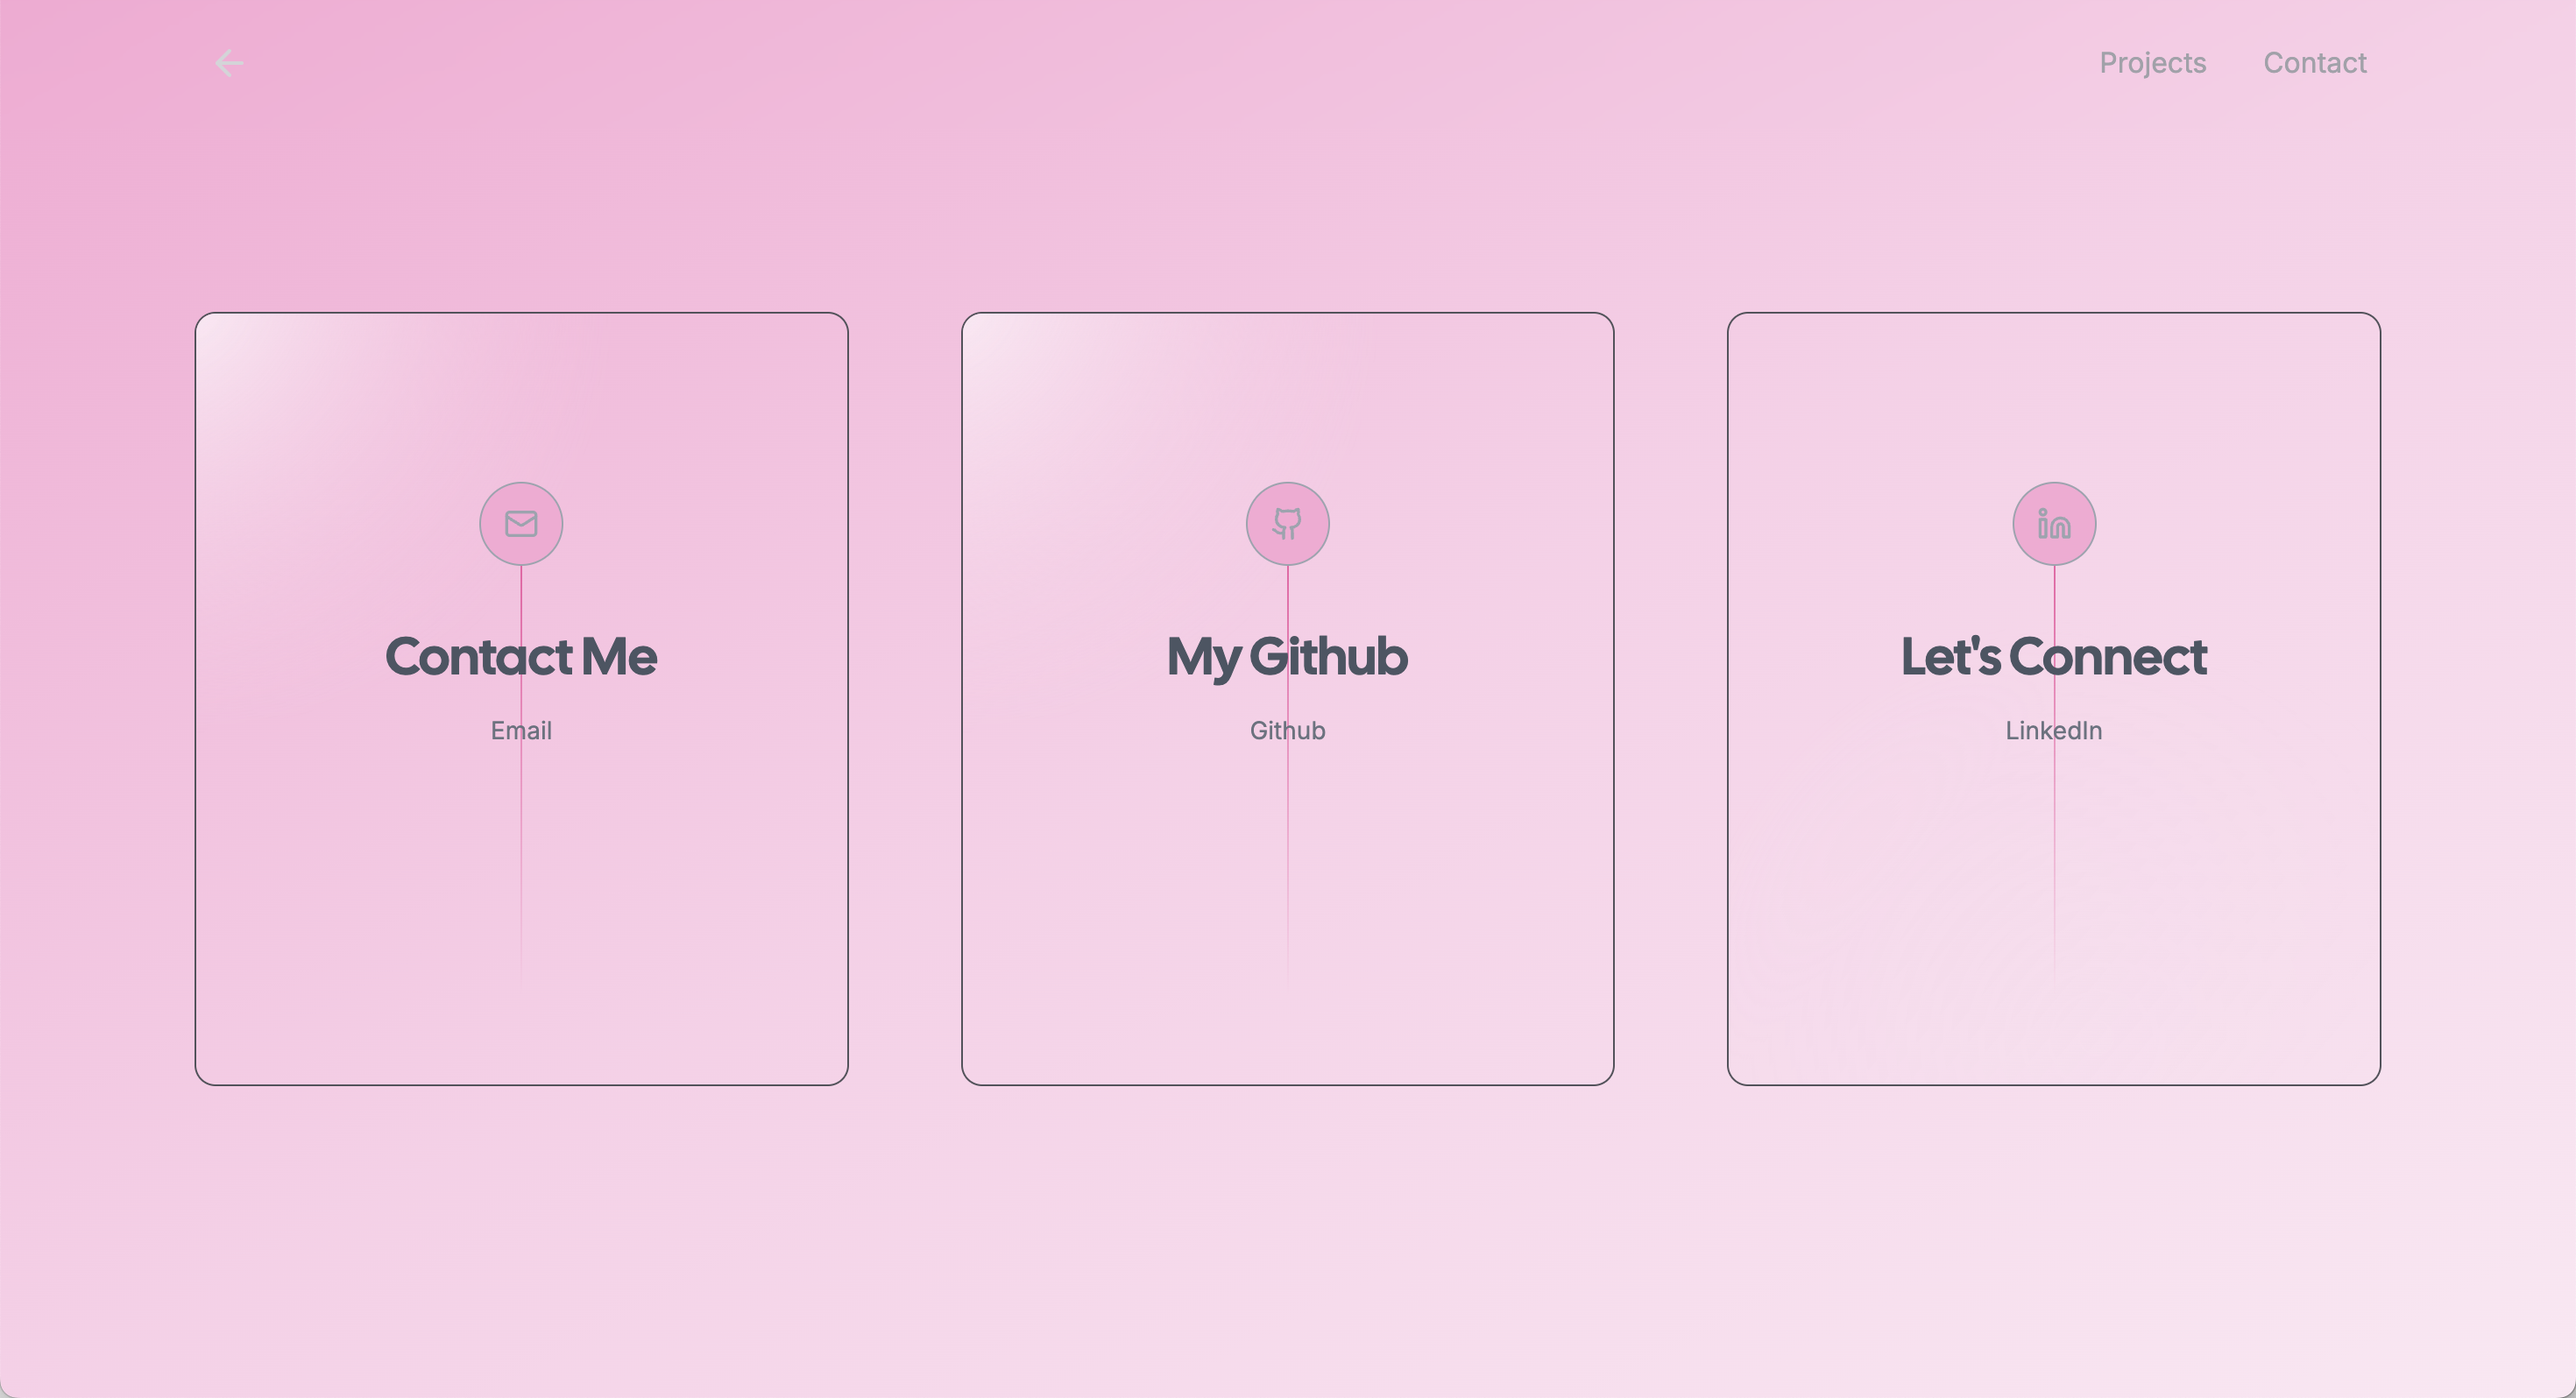
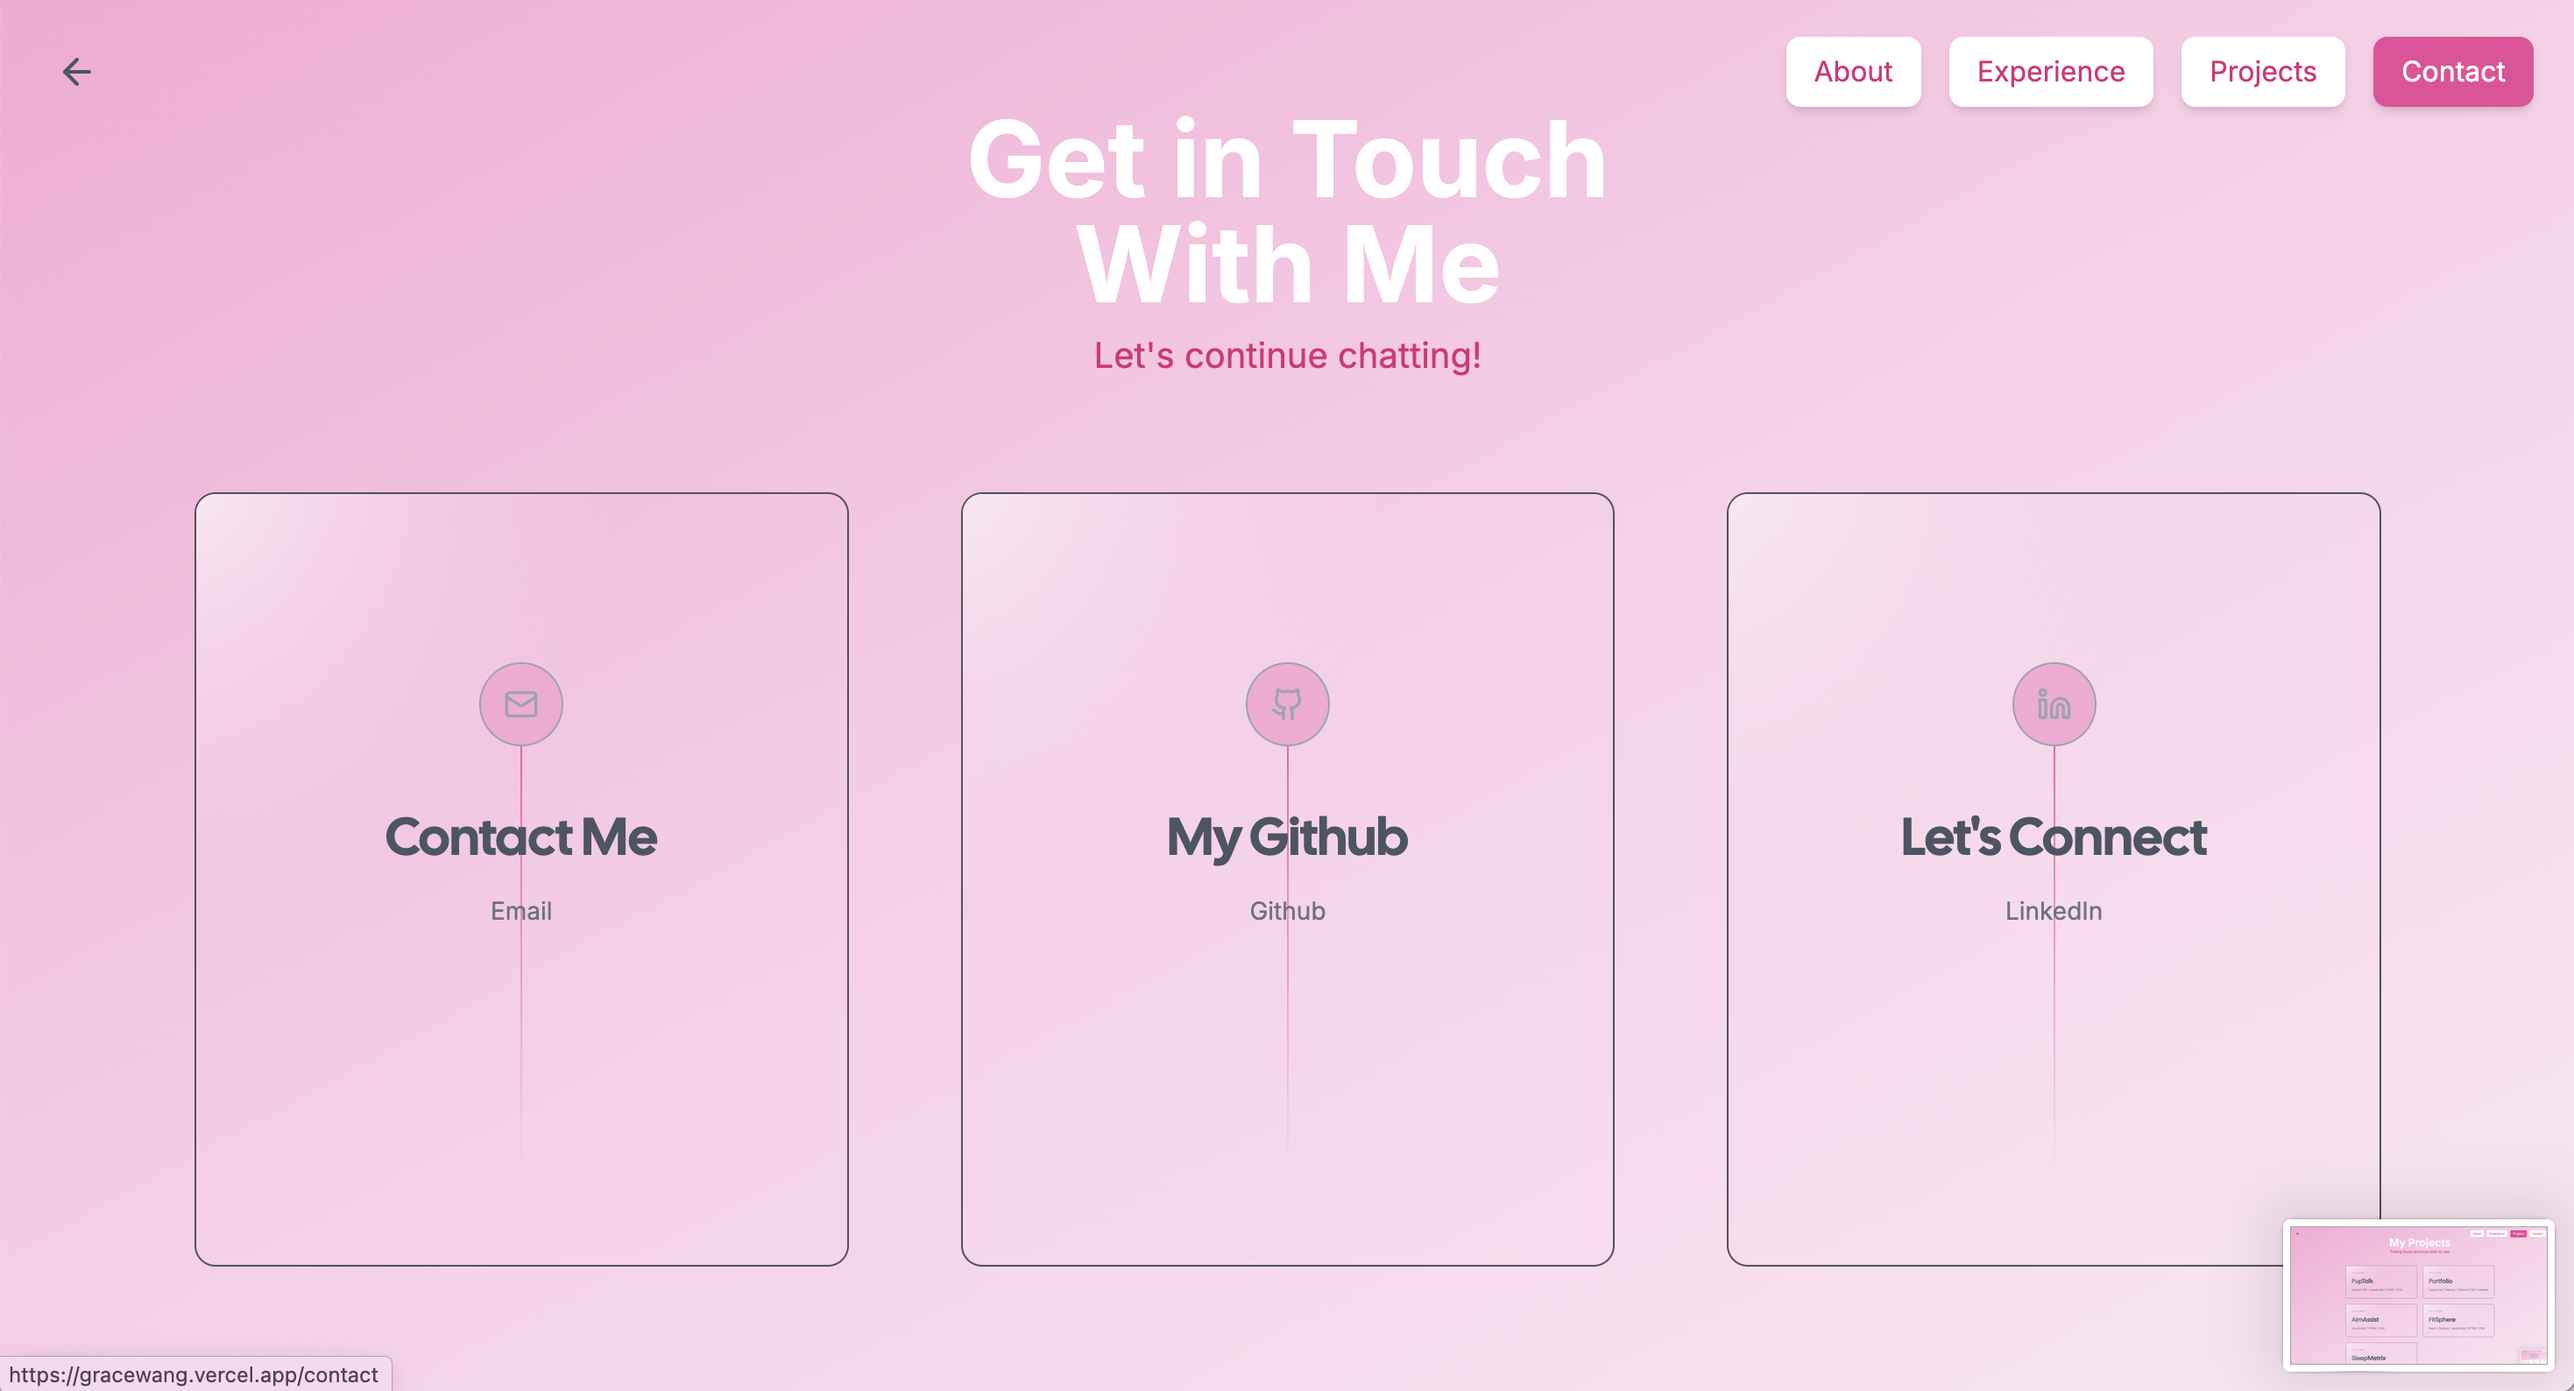
updated readme

diff --git a/README.md b/README.md
@@ -7,6 +7,12 @@ This is a website I developed using **Next.js, Tailwind CSS, and Upstash** to sh
 ### Home Page
 ![Homepage](public/homepage.png)
 
+### About Page
+![Homepage](public/aboutpage.png)
+
+### Exxperiences Page
+![Homepage](public/experiencepage.png)
+
 ### Project Page
 ![Projects](public/projectpage.png)
 
